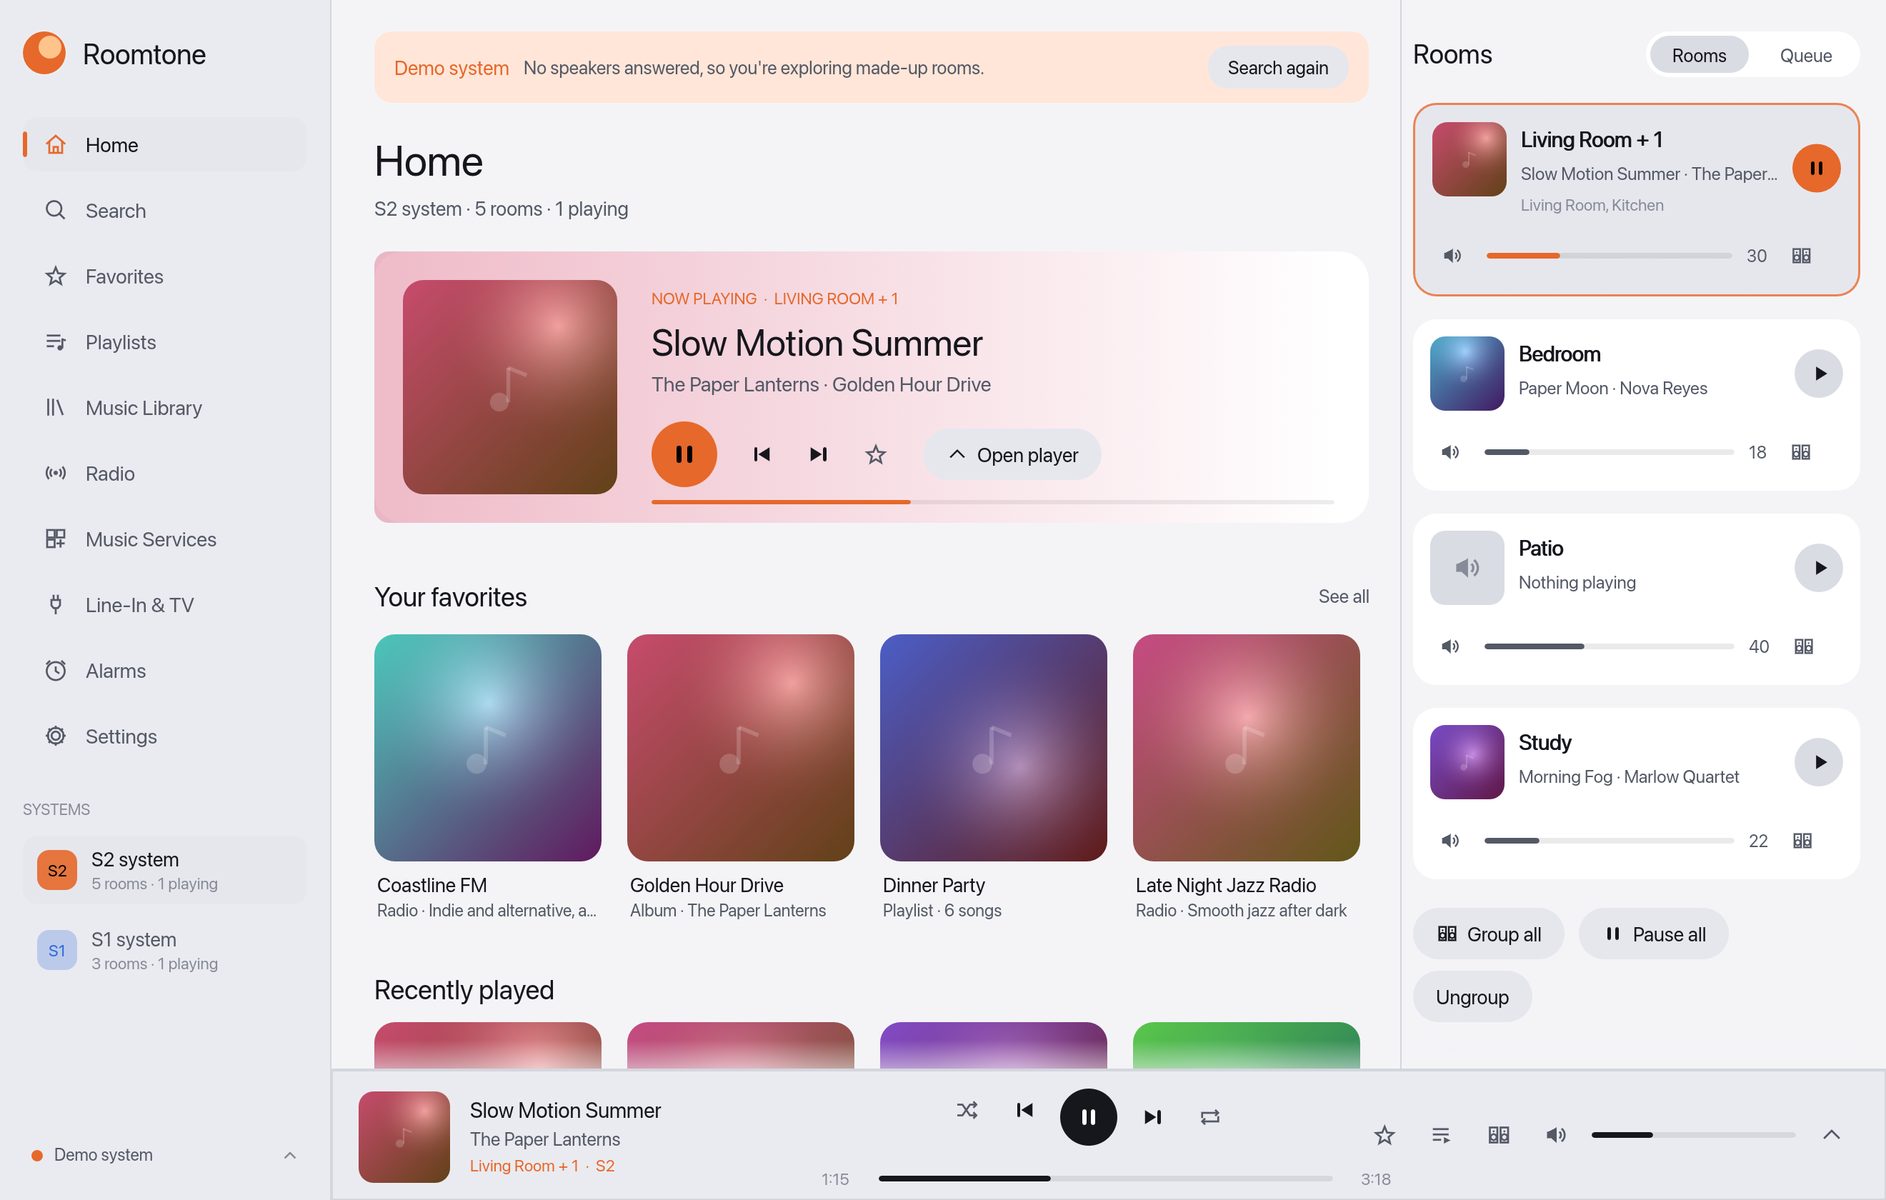
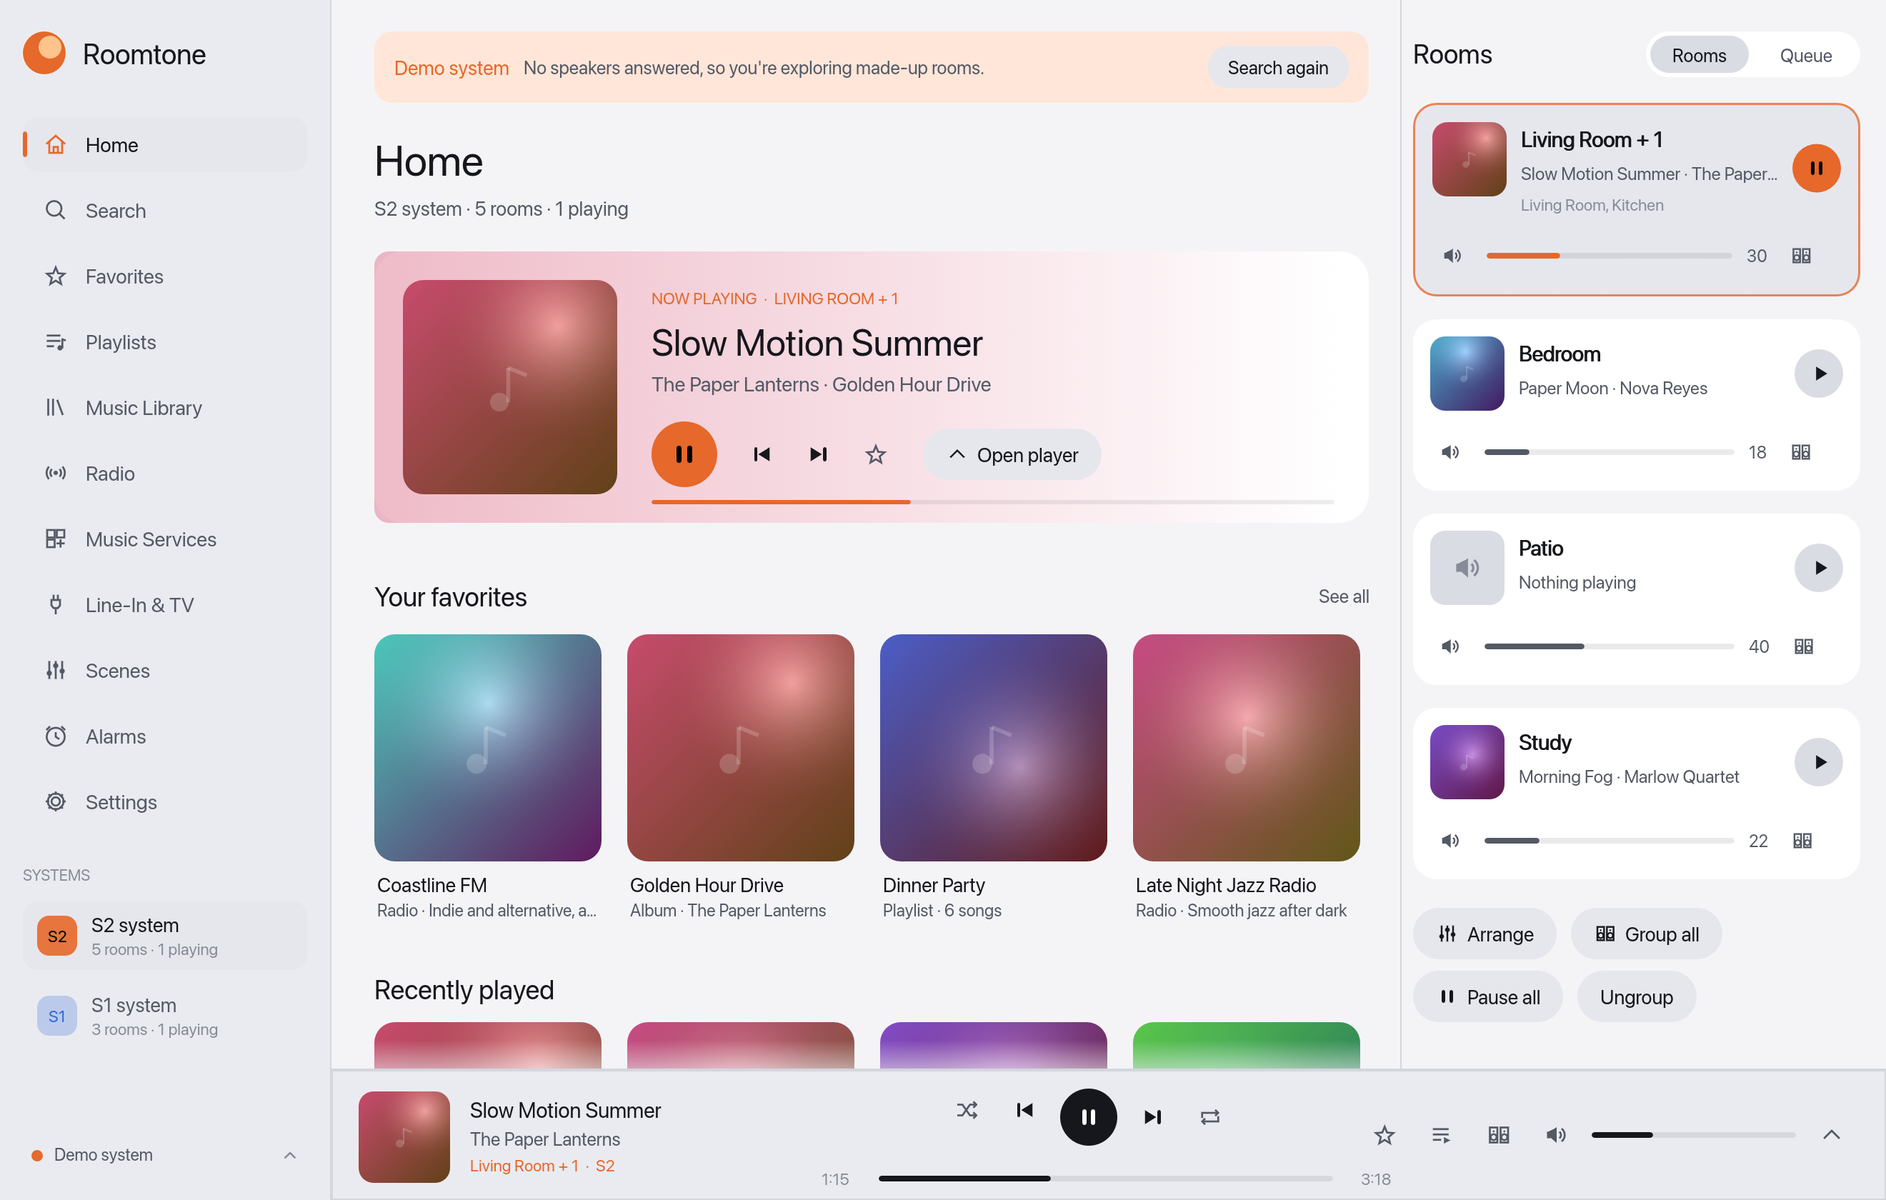
Docs and README brought up to date for 0.7.0, with fresh screenshots

diff --git a/SPEC.md b/SPEC.md
@@ -271,10 +271,12 @@ All in the app's data folder: `~/Library/Application Support/Roomtone/` (macOS),
 
 | File | Contents |
 | --- | --- |
-| `config.json` (mode 600 on Unix) | `folders` (paths), `stations` [{`name`, `url`, `genre`}], `podcasts` [{`title`, `author`, `feed`, `art`}], `services` (switched-on free sources: `local`, `radio`, `podcasts`, `archive`), `accounts` [{`sid`, `name`, `uri`, `manifest`, `household`, `device_id`, `token`, `key`, `sn`}], `favorites` (items kept in the app), `groups` [{`name`, `household`, `rooms`}], `language` (`auto` or a code), `theme` (`auto`, `light` or `dark`), `speaker_events` (`true` or `false`), `room_order` (room ids, first to last), `check_new_versions` (`true` or `false`), `last_version_check` (seconds since 1970), `mcp` {`enabled`, `allow_control`, `allow_network`, `port`, `token`} |
-| `config.json` (mode 600 on Unix) | `folders` (paths), `stations` [{`name`, `url`, `genre`}], `podcasts` [{`title`, `author`, `feed`, `art`}], `services` (switched-on free sources: `local`, `radio`, `podcasts`, `archive`), `accounts` [{`sid`, `name`, `uri`, `manifest`, `household`, `device_id`, `token`, `key`, `sn`}], `favorites` (items kept in the app), `groups` [{`name`, `household`, `rooms`}], `language` (`auto` or a code), `theme` (`auto`, `light` or `dark`), `speaker_events` (`true` or `false`), `room_order` (room ids, first to last), `remember_history` (`true` or `false`), `media_keys` (`true` or `false`), `mcp` {`enabled`, `allow_control`, `allow_network`, `port`, `token`} |
+| `config.json` (mode 600 on Unix) | `folders` (paths), `stations` [{`name`, `url`, `genre`}], `podcasts` [{`title`, `author`, `feed`, `art`}], `services` (switched-on free sources: `local`, `radio`, `podcasts`, `archive`), `accounts` [{`sid`, `name`, `uri`, `manifest`, `household`, `device_id`, `token`, `key`, `sn`}], `favorites` (items kept in the app), `groups` [{`name`, `household`, `rooms`}], `language` (`auto` or a code), `theme` (`auto`, `light` or `dark`), `speaker_events` (`true` or `false`), `scenes` [{`name`, `household`, `rooms` [{`room`, `volume`}], `group`, `play`, `sleep_minutes`}], `room_order` (room ids, first to last), `remember_history` (`true` or `false`), `media_keys` (`true` or `false`), `check_new_versions` (`true` or `false`), `last_version_check` (seconds since 1970), `mcp` {`enabled`, `allow_control`, `allow_network`, `port`, `token`} |
 | `speakers.json` | Systems from last time: [{`id`, `s1`, `rooms` [{`uuid`, `name`, `ip`, `model`, `version`}], `groups` [{`coordinator`, `members`}]}] |
 | `songs.json` | `songs`: details (title, artist, album, art) by address, for songs the speakers know only by address; `relays`: relay codes for S1 and the https address each stands for |
+| `window.json` | The window's size, position and maximised state (§4.8) |
+| `history.json` | The listening history: up to 500 entries (song or station, address, play count, last played) (§4.8) |
+| `podcast-progress.json` | Where you stopped in each podcast episode and which are played (newest 300) |
 
 ## 9. Network, security and privacy
 
@@ -309,8 +311,17 @@ All in the app's data folder: `~/Library/Application Support/Roomtone/` (macOS),
 | Sound quality labels | Unit tests on made-up and real-S1-library descriptions (format from the MIME type is what a real S1 system sends for library tracks); **sample rate, bit depth and bitrate from real speakers not yet seen** (nothing was playing when checked) |
 | Speaker updates (UPnP events) | Unit tests against a pretend speaker (subscribe, notice, renew, cancel, refusals); tried once with a real S1 speaker (Connect:Amp, firmware 11.16): all three subscriptions accepted, a first notice for each within about 5 s, a 1800 s lease, renewing and cancelling work; no S2 or multi-room tests yet |
 | Assistant link: every tool, on/off, look-only, key, origin check | Demo system, stdio and HTTP |
+| Assistant change notifications (`resources/subscribe`) | Unit tests and a stdio run on the demo system; **not yet tried with a real assistant client** |
+| Command line (`roomtone play`, `volume`, `scene`, `backup`…) | Unit tests and a headless demo instance; **not yet run against a real system** |
+| Scenes | Unit tests and the demo system; once on two rooms of a real S1 system (grouping, volumes, a station, a sleep timer); **not yet on S2, with an album or playlist, or with an offline room** |
+| Speaker status (wired or wireless) | One real S1 Connect:Amp (wired); **Wireless not yet seen** |
+| *Can't find your speakers?* | Unit tests and the demo system; **not yet on a genuinely failing network** |
+| PLS and XSPF playlist files | Unit tests; **not yet opened in other players** |
+| Keyboard focus and screen-reader names | Unit test of the accessibility tree and screenshots; **not yet tried with a real screen reader** |
+| Media keys and Now Playing | Started on macOS; **Windows and Linux compile only** |
+| Homebrew install and upgrade | Real Mac (0.6.2 installed and upgraded through the tap) |
 | Translations | Automated completeness test; not reviewed by native speakers |
-| Logic without speakers (parsers, rules, settings, demo system, assistant link incl. HTTP security) | 103 unit tests (`cargo test`), run on every platform in CI |
+| Logic without speakers (parsers, rules, settings, demo system, assistant link incl. HTTP security) | About 220 unit tests (`cargo test`), run on every platform in CI |
 | Light mode | Screenshots of every page in the demo system |
 | Windows and Linux builds | Continuous integration (`.github/workflows/ci.yml`); not run by hand |
 

diff --git a/docs/ARCHITECTURE.md b/docs/ARCHITECTURE.md
@@ -37,6 +37,16 @@ This is the map of the code. What the app should do is in [SPEC.md](../SPEC.md);
 | `backend.rs` | `Cmd`, `Backend` (`send`, `send_and_wait`), the worker and poller threads, discovery and reconnect, streaming playback with account retry, service checks, play-along (`mirror`, `sync_link`), software updates (`check_updates`, `install_update`) |
 | `model.rs` | Data the window shows: `Household`, `Room`, `Group`, `NowPlaying`, `Item`, `Alarm`, `AppState` |
 | `config.rs` | `Config`, saved as `config.json`: folders, stations, podcasts, services, sign-ins, kept favorites, saved groups, language, `McpConfig` |
+| `cli.rs` | The control commands (`roomtone play`, `volume`, `scene`, `backup`…): turns words into assistant tool calls and sends them to the running app's link |
+| `scene.rs` | Doing a scene: the same steps an assistant would take, in order, stopping at the first that fails |
+| `backup.rs` | The backup file (favorites, playlists, alarms and Roomtone's own lists): building, reading, restoring, and the playlist export path |
+| `m3u.rs`, `csv.rs`, `pls_xspf.rs` | Playlist files: writing and reading M3U/M3U8, CSV, PLS and XSPF |
+| `history.rs` | The listening history (`history.json`) and the tracker that decides what counts as played |
+| `media_keys.rs`, `window.rs` | The system's media keys and Now Playing (souvlaki), and the remembered window size and position |
+| `version.rs` | The optional look for a newer Roomtone on GitHub |
+| `s2.rs` | Reading what a speaker says about itself, and judging whether it could move to S2 |
+| `diagnose.rs`, `status.rs` | *Can't find your speakers?* (checks, advice, redacted report) and wired/wireless from a speaker's network counters |
+| `quality.rs` | Sound-quality labels read from what the speaker reports for the playing track |
 | `known.rs` | `speakers.json`: speakers from last time, for an instant start |
 | `demo.rs` | The made-up S1 and S2 systems, and how commands change them (`apply`, `tick`) |
 | `mcp.rs` | The MCP server: tool list, `Mcp::handle` (JSON-RPC), `serve_stdio`, `start_http` (opens and closes the port as settings change) |
@@ -44,15 +54,18 @@ This is the map of the code. What the app should do is in [SPEC.md](../SPEC.md);
 | `net/discovery.rs` | SSDP search and reading each system's topology |
 | `net/soap.rs` | A small UPnP/SOAP client for the speakers' port 1400 |
 | `net/speaker.rs` | Every action on a speaker: transport, volume, browse, queue, favorites, grouping, inputs, EQ, alarms, music-service list, account numbers |
+| `net/events.rs` | UPnP events: subscribing, the listener for `NOTIFY` messages, renewing and cancelling |
 | `net/didl.rs` | DIDL-Lite metadata, reading and writing |
 | `sources/mod.rs` | Registry of sources and services (`SERVICES`), browse/search dispatch, favorites by service |
 | `sources/local.rs` | Scanning music folders, and the file server the speakers fetch from (port 52880) |
 | `sources/radio.rs`, `podcasts.rs`, `archive.rs` | The free online sources |
 | `sources/smapi.rs` | Streaming services through the speakers' music-service API (sign-in links, browse, search, playable addresses) |
+| `sources/progress.rs` | Podcast progress and played marks (`podcast-progress.json`) |
 | `sources/memory.rs` | `songs.json`: details of songs the speakers only know by address |
 | `ui/mod.rs` | The window frame: sidebar, rooms/queue panel, bottom bar, dialogs, toasts, the screenshot option |
 | `ui/pages.rs` | Every page: home, search, library, radio, services, inputs, now playing, alarms, settings, room settings |
-| `ui/widgets.rs`, `theme.rs`, `art.rs` | Drawn icons and controls, the dark and light palettes (`TEXT()`, `SURFACE()`… switch with the appearance), album art |
+| `ui/scenes.rs`, `ui/lists.rs` | The Scenes page, its editor window and the Home row; sorting, filtering and the A–Z strip for long lists |
+| `ui/widgets.rs`, `theme.rs`, `art.rs` | Drawn icons and controls (each one must name itself for screen readers with `describe`, and show `focus_ring`), the dark and light palettes (`TEXT()`, `SURFACE()`… switch with the appearance), album art |
 | `mcp/notify.rs` | Change notifications: subscriptions per session and the watcher that compares what's known once a second |
 | `mcp/extra.rs` | More assistant tools (browse, favorites, queue editing, rooms, alarms, saved groups, services, stations, podcasts), resources, prompts and completions |
 | `test_support.rs` | Test helpers: a scratch settings folder, English wording, a running demo backend |
@@ -82,6 +95,8 @@ Slow work (discovery, browsing, search, service sign-in) runs on its own short-l
 | Event listener | While subscribed | Accepts `NOTIFY` messages from the speakers, one short thread per connection (`net::events::listen`) |
 | Short-lived | Per task | Discovery, browsing, search per source, sign-in polling, service checks, updates, play-along sync |
 | Music server | Whole run | Serves this computer's folders to the speakers (`sources::local`) |
+| Version checker | Whole run, active only while *New versions* is on | Looks at the latest release once a day, or when *Check now* is pressed |
+| Change watcher | One per assistant session that follows resources | Compares what's known once a second and sends `notifications/resources/updated` (stdout or the HTTP event stream) |
 | Assistant link | While on | HTTP listener and one thread per connection (`mcp::start_http`), or the stdin loop (`mcp::serve_stdio`) |
 
 ## Conventions

diff --git a/README.md b/README.md
@@ -23,13 +23,22 @@ There are no ads, no call-homes and you can run it completely offline.
 - **Playback**: queue editing, shuffle, repeat, crossfade, sleep timer, line-in and TV inputs, alarms, room sound settings.
 - **Music from everywhere**: the system's library, folders on this computer, favorites and playlists, internet radio, podcasts, the Internet Archive, and streaming services (sign in to Spotify, Amazon Music, Deezer, TIDAL or Qobuz; favorites from Apple Music, YouTube Music and SoundCloud). One search box covers them all.
 - **Software updates** for each system, with S1 kept on S1.
-- **Assistant link (MCP)**: 48 tools (status, playback, volume, browse and search, favorites, queue, grouping, alarms, rooms, services, stations, podcasts and updates), live resources, ready-made prompts and name suggestions. Off by default, with look-only mode and an access key.
+- **Scenes**: one click sets up a set of rooms: who plays together, how loud, what plays and when it stops ("Movie night"). On a Scenes page, as buttons on Home, from the command line and for assistants.
+- **Assistant link (MCP)**: 51 tools (status, playback, volume, browse and search, favorites, queue, grouping, scenes, alarms, rooms, services, stations, podcasts, backups and updates), live resources that assistants can follow for changes, ready-made prompts and name suggestions. Off by default, with look-only mode and an access key.
+- **Command line**: `roomtone play`, `volume 30 --room Kitchen`, `scene "Movie night"`, `backup file.json` and more control the running app, for scripts, Stream Deck and Shortcuts.
+- **Backup and restore** of favorites, playlists and alarms, and playlists as M3U, PLS, XSPF or CSV files, to move between S1 and S2 or between apps.
+- **Podcasts that remember**: skip back and forward, where you stopped, *Continue listening*. **Listening history** kept on this computer only, with a History page.
+- **Keyboard media keys and Now Playing** (macOS Control Center, Windows media overlay, Linux MPRIS), and a window that remembers its size and position.
+- **Keyboard and screen readers**: Tab reaches every control with a visible focus ring, sliders take arrow keys, and every hand-drawn control is named for VoiceOver, Narrator, NVDA and Orca (not yet tried with a real screen reader).
+- **When something's wrong**: *Can't find your speakers?* runs a read-only check with plain advice and a report with no names or addresses; *Your speakers* shows whether each room is wired or wireless; a check tells you which of your speakers could move to S2; an optional, off-by-default check for new Roomtone versions.
 - **Light, dark or automatic** appearance.
 - A **demo system** with made-up rooms, so you can try everything without speakers.
 
 ![The Now Playing page](docs/images/roomtone-now-playing.png)
 
 ![The home screen in light mode](docs/images/roomtone-home-light.png)
+
+![Scenes: one click sets up your rooms](docs/images/roomtone-scenes.png)
 
 ## Install
 
@@ -69,7 +78,8 @@ roomtone --theme light   # appearance for this run (auto, light, dark)
 roomtone --headless      # no window: keep the speakers up to date and serve the assistant link over HTTP
 roomtone --mcp           # no window: serve the assistant link on stdin/stdout
 roomtone --mcp-on        # switch the assistant link on (it's off until you do)
-roomtone --help          # every option
+roomtone play            # control the running app: play, pause, next, volume 30, scene "Movie night" …
+roomtone --help          # every option (and the control commands)
 roomtone --help mcp      # how to connect an assistant, written for the computer you're on
 ```
 
@@ -99,7 +109,7 @@ Step-by-step guides for macOS, Windows and Linux (including starting it automati
 | Windows | `%APPDATA%\Roomtone\` |
 | Linux | `~/.config/roomtone/` |
 
-`config.json` holds your settings, sign-ins and the assistant access key, readable only by you; every setting is explained in the [settings guide](docs/SETTINGS.md). `speakers.json` remembers your speakers for a fast start, and `songs.json` keeps song details. Nothing is sent anywhere except to your speakers, the music sources you use and the services you sign in to. There's no telemetry.
+`config.json` holds your settings, scenes, sign-ins and the assistant access key, readable only by you; every setting is explained in the [settings guide](docs/SETTINGS.md). `speakers.json` remembers your speakers for a fast start, `songs.json` keeps song details, `history.json` your listening history, `podcast-progress.json` where you stopped in episodes and `window.json` the window's size and position. Nothing is sent anywhere except to your speakers, the music sources you use and the services you sign in to. There's no telemetry.
 
 ## Contributing
 

diff --git a/docs/HEADLESS_AND_MCP.md b/docs/HEADLESS_AND_MCP.md
@@ -200,13 +200,18 @@ printf '%s\n' '{"jsonrpc":"2.0","id":1,"method":"initialize","params":{}}' \
 | "Couldn't open port 8790" in Settings | Another program, or another copy of Roomtone, already uses the port; pick another with `--mcp-port` |
 | Tools list without play/volume tools | *Assistants can change things* is off (look-only) |
 
-## 4. Safety
+## 4. Following changes, and the command line
+
+- **Change notifications**: an assistant can `resources/subscribe` to `roomtone://status`, `roomtone://now-playing`, `roomtone://alarms` or `roomtone://queue/<room>` and is told with `notifications/resources/updated` when it changes, instead of asking again and again. Over stdin/stdout the notice is a line of its own; over HTTP the assistant sends back the `Mcp-Session-Id` it was given at `initialize` and opens `GET /mcp` with `Accept: text/event-stream`. Ticking values (the song position) don't count as changes. See [SPEC.md §6.4](../SPEC.md).
+- **Command line**: with the link on (and control allowed), `roomtone play`, `pause`, `next`, `volume 30 --room Kitchen`, `volume +5 --group`, `mute`, `sleep 30`, `group Kitchen Den`, `scene "Movie night"`, `scenes`, `status`, `now`, `queue`, `favorites`, `alarms` and `backup file.json` talk to the Roomtone that's already running (window or `--headless`) on this computer. Exit code 0 done, 1 refused, 2 not understood, 3 can't reach Roomtone. `roomtone --help` lists them.
+
+## 5. Safety
 
 - Off by default; switching it off takes effect at once.
 - HTTP listens on this computer only (`127.0.0.1`) unless you allow other computers. It always requires the access key, refuses requests from web pages (checked by `Origin`, and JSON only), and with other computers off it also refuses other host names.
 - Look-only mode hides and refuses every tool that changes something.
 - The access key is in `config.json`, readable only by you. **New key** in Settings replaces it.
 
-## 5. What assistants can do
+## 6. What assistants can do
 
 See the tool table in [SPEC.md §6.3](../SPEC.md#63-tools): status, now playing, playback, volume and mute, play mode, seek, sleep timer, favorites, playlists, search and play, queue, grouping and saved groups, play along across S1/S2, line-in/TV, sound settings and alarms.

diff --git a/docs/PROTOCOL.md b/docs/PROTOCOL.md
@@ -119,6 +119,11 @@ Used by `net::events` when *Speaker updates* is on. Plain HTTP on port 1400:
 
 Paths: `/MediaRenderer/AVTransport/Event` (a group's coordinator), `/MediaRenderer/RenderingControl/Event` (each room), `/ZoneGroupTopology/Event` (one room per system). The body (`LastChange` XML) is deliberately not parsed: a notice only triggers the usual read of that group, so there is one way of reading state. Checked once against a real S1 speaker (Connect:Amp, firmware 11.16.1, 2026-11-13) with the ignored test `real_speaker_events`: all three subscriptions were accepted, each sent its first notice about 4–5 s after subscribing, the lease was 1800 s and renewing and cancelling worked. Not yet checked: S2 speakers, bonded pairs and groups, and what happens when a speaker restarts. The app counts a subscription as working only after the first notice.
 
+## 6d. Status pages and device details (read-only)
+
+- `GET /xml/device_description.xml` is used for the model, hardware version and software generation (the S2 check) and as the "does it answer?" test in *Can't find your speakers?*.
+- `GET /status/ifconfig` lists the speaker's network interfaces with packet counts. Whichever of the cable (`eth0`) and the wireless interface (`ath0`, `ath1`, `ra0`, `wlan0`) has carried clearly more decides *Wired* or *Wireless*; with under about 100 packets, or both busy, nothing is claimed. **Seen on a real S1 Connect:Amp (wired); a wireless speaker hasn't been seen.** `/status/zp` and `/status/proc/ath_rincon/status` exist but give no signal strength that can be relied on, so none is shown.
+
 ## 7. Things that are guesses
 
 Mark guesses in code comments with "estimate", and list them here.
@@ -126,3 +131,4 @@ Mark guesses in code comments with "estimate", and list them here.
 - Which models have line-in or TV inputs (`model::Room::has_line_in` / `has_tv`) is guessed from the model name.
 - Address formats for service tracks (`smapi::to_item`) were checked against common services, not every one.
 - Software update behaviour (section 6).
+- Wired/wireless from packet counts (section 6d) is a heuristic: a speaker that just started, or one that's busy on both, is reported as unknown.
